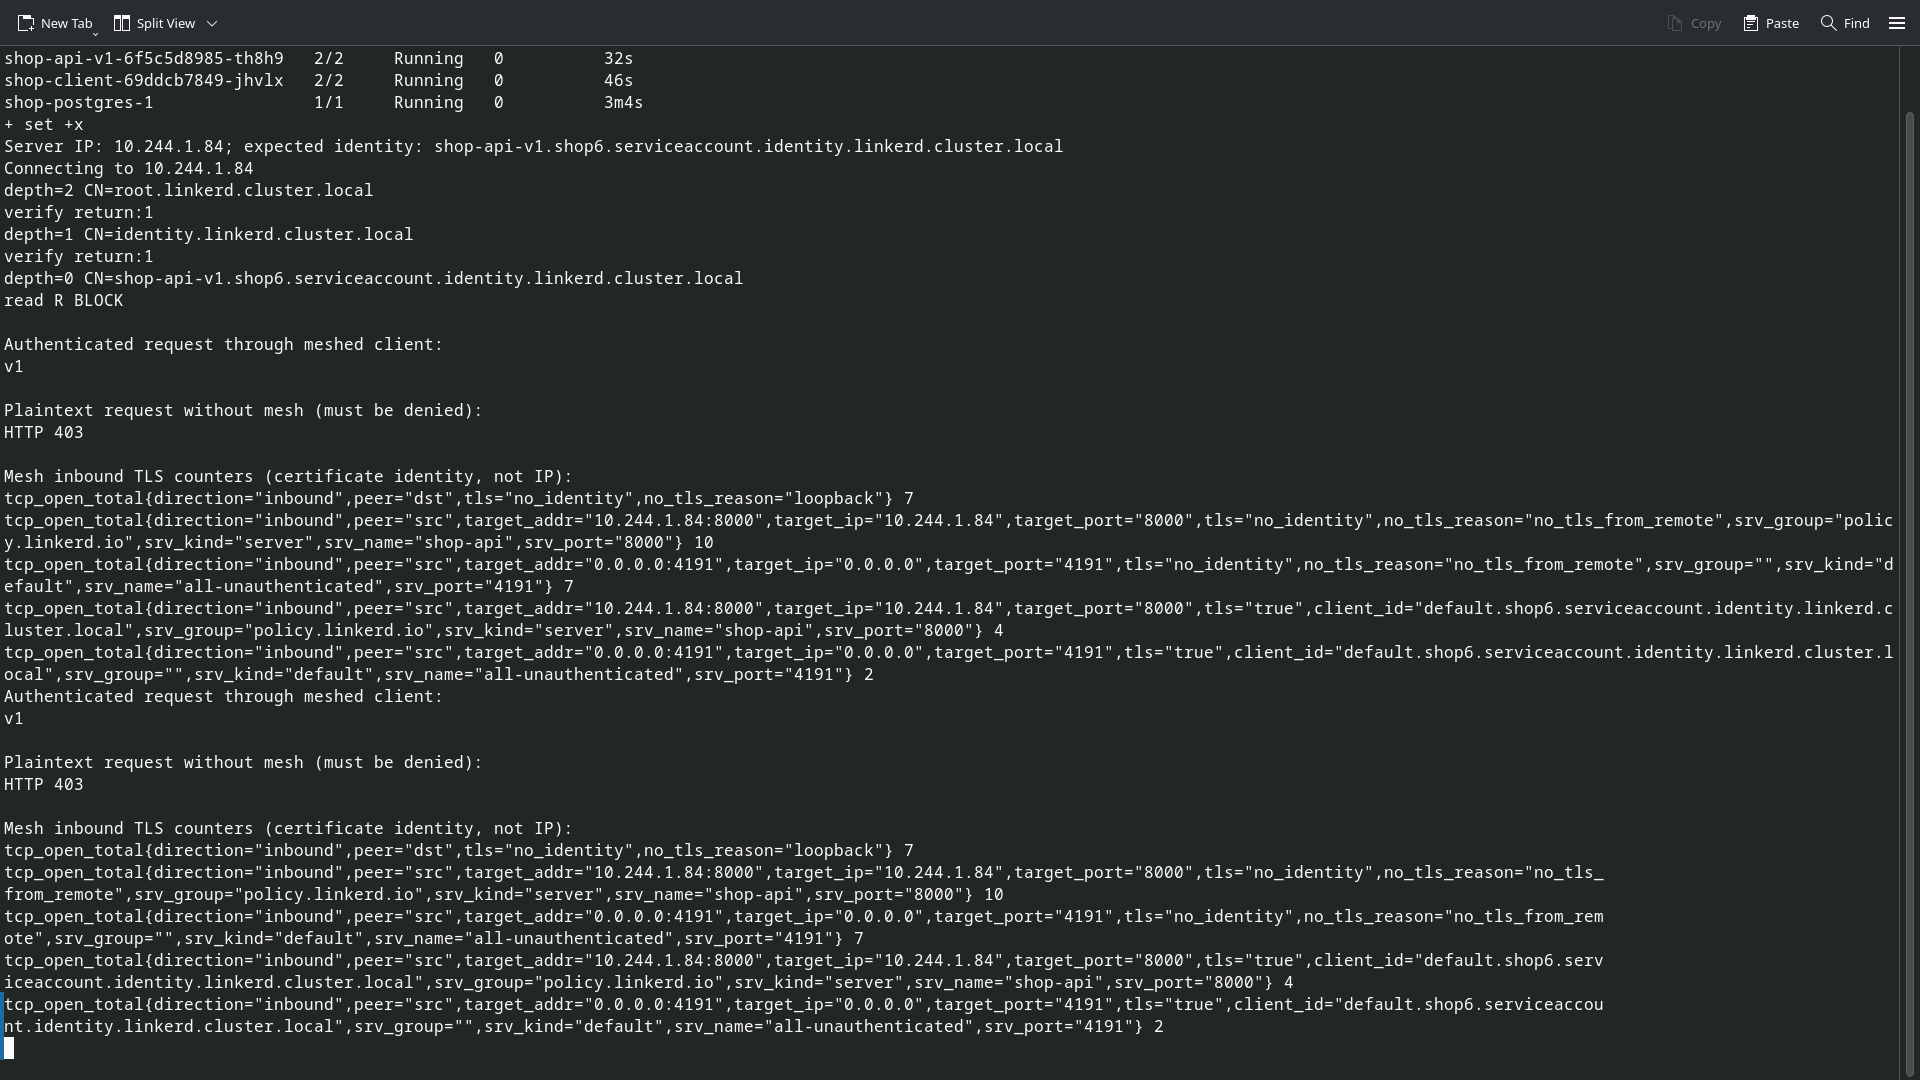
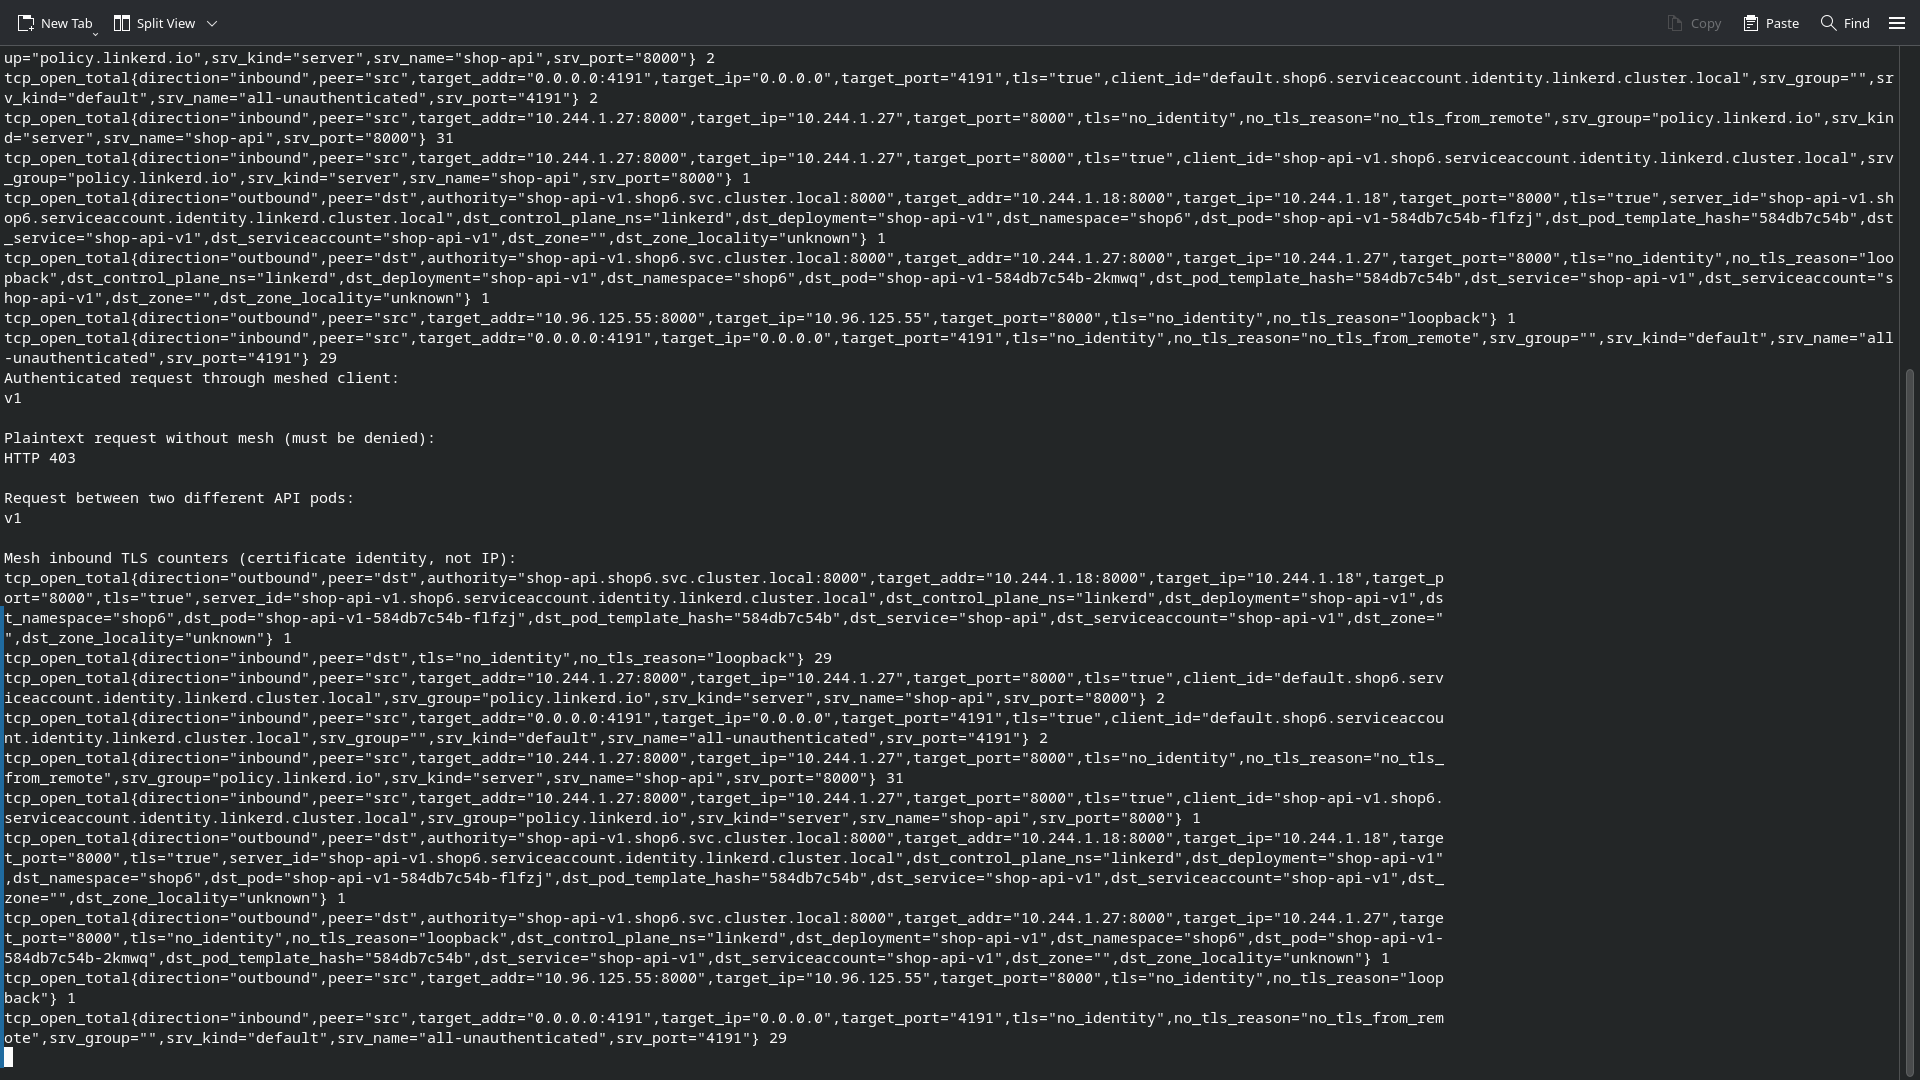
lab-6 stage 4: prove mesh retries with backend and client error graph

diff --git a/lecture-6-service-mesh/scripts/plot.py b/lecture-6-service-mesh/scripts/plot.py
@@ -1,0 +1,31 @@
+"""Render the recorded measurements; capture the displayed figure with Spectacle."""
+import argparse,json
+from pathlib import Path
+import matplotlib.pyplot as plt
+p=argparse.ArgumentParser();p.add_argument('kind',choices=['flaky','bad','good','cost']);a=p.parse_args()
+r=Path(__file__).resolve().parents[1]
+plt.rcParams.update({'font.size':14,'axes.grid':True,'figure.facecolor':'white'})
+fig,ax=plt.subplots(figsize=(14,7),layout='constrained')
+if a.kind=='flaky':
+    data=json.loads((r/'evidence/flaky.json').read_text());start=data['start']
+    for s in data['backend_error_series']:
+        ax.plot([float(t)-start for t,v in s['values']],[float(v)*100 for t,v in s['values']],label='Backend 5xx (Linkerd inbound, 30s rate)',linewidth=2)
+    ax.plot([t-start for t,v in data['client_windows']],[v*100 for t,v in data['client_windows']],label='Client errors (10s windows)',linewidth=2)
+    ax.set(xlabel='Seconds',ylabel='Errors, %',title=f'FLAKY=true, 30% simulated backend failures; {data["errors"]}/{data["requests"]} client errors',ylim=(-1,40));ax.legend()
+elif a.kind in ['bad','good']:
+    data=json.loads((r/f'evidence/{a.kind}.json').read_text());start=data['start']
+    ax.step([x['time']-start for x in data['weights']],[x['weight'] for x in data['weights']],where='post',label='Configured v2 traffic weight',linewidth=2)
+    for key,label in [('error','v2 backend 5xx, 30s rate'),('traffic','Observed v2 traffic share, 30s rate')]:
+        for s in data[key]: ax.plot([float(t)-start for t,v in s['values']],[float(v)*100 for t,v in s['values']],label=label,linewidth=2)
+    for x in data['gate']:
+        if x.get('decision') in ['rollback','promote']:
+            ax.axvline(x['time']-start,color='gray',alpha=.5,linestyle='--')
+    ax.set(xlabel='Seconds',ylabel='Percent',ylim=(-3,105),title='Automatic rollback: FAIL=true' if a.kind=='bad' else 'Automatic promotion: healthy v2');ax.legend(loc='center right')
+else:
+    base=json.loads((r/'evidence/baseline.json').read_text());mesh=json.loads((r/'evidence/mesh.json').read_text())
+    fig.clear();axes=fig.subplots(1,3)
+    for axis,key,title,scale in zip(axes,['p95_ms','cpu_cores','memory_bytes'],['Order p95, ms','API pods CPU, millicores','API pods working set, MiB'],[1,1000,1/1048576]):
+        vals=[(sum(x['value'] for x in d[key]) if isinstance(d[key],list) else d[key])*scale for d in [base,mesh]]
+        bars=axis.bar(['Baseline','Mesh'],vals,color=['#5594c7','#e89947']);axis.bar_label(bars,fmt='%.2f');axis.set_title(title);axis.set_ylim(0,max(vals)*1.25)
+    fig.suptitle('Same workload: 20 orders/s, 120 seconds, 2 API v1 replicas')
+fig.savefig(f'/tmp/lab6-{a.kind}.png',dpi=140)

diff --git a/lecture-6-service-mesh/scripts/export-flaky.py b/lecture-6-service-mesh/scripts/export-flaky.py
@@ -1,0 +1,19 @@
+from pathlib import Path
+import json
+from prom import query,series
+r=Path(__file__).resolve().parents[1]
+rows=[json.loads(x) for x in Path('/tmp/lab6-flaky.jsonl').read_text().splitlines()]
+start,end=rows[0]['time'],rows[-1]['time']
+sel='namespace="shop6",direction="inbound",deployment="shop-api-v1",target_port="8000",route_name!="probe"'
+expr=f'sum(rate(response_total{{{sel},status_code=~"5.."}}[30s])) / sum(rate(response_total{{{sel}}}[30s]))'
+retry='sum(increase(outbound_http_route_retry_requests_total{namespace="shop6",route_name="shop-api"}[%ds]))'%int(end-start)
+success=retry.replace('retry_requests','retry_successes')
+result={'start':start,'end':end,'requests':len(rows),'errors':sum(x['code']!=201 for x in rows),
+        'backend_error_series':series(expr,start,end),'retry_requests':query(retry,end),'retry_successes':query(success,end),
+        'retry_overflow':query(retry.replace('retry_requests','retry_overflow'),end),'client_windows':[]}
+for t in range(0,int(end-start),10):
+    subset=[x for x in rows if start+t <= x['time'] < start+t+10]
+    if subset: result['client_windows'].append([start+t,sum(x['code']!=201 for x in subset)/len(subset)])
+(r/'evidence/flaky.json').write_text(json.dumps(result,indent=2))
+print('Requests:',result['requests'],'client errors:',result['errors'])
+print('Retry requests:',result['retry_requests'],'successes:',result['retry_successes'])

diff --git a/lecture-6-service-mesh/scripts/prom.py b/lecture-6-service-mesh/scripts/prom.py
@@ -1,0 +1,9 @@
+"""Small Prometheus HTTP API helper, also used to export graph data."""
+import json,urllib.parse,urllib.request
+URL='http://localhost:19090'
+def query(expr,at=None):
+    params={'query':expr}
+    if at: params['time']=at
+    return json.load(urllib.request.urlopen(URL+'/api/v1/query?'+urllib.parse.urlencode(params)))['data']['result']
+def series(expr,start,end,step=5):
+    return json.load(urllib.request.urlopen(URL+'/api/v1/query_range?'+urllib.parse.urlencode({'query':expr,'start':start,'end':end,'step':step})))['data']['result']

diff --git a/lecture-6-service-mesh/REPORT.md b/lecture-6-service-mesh/REPORT.md
@@ -33,3 +33,15 @@
 [Полный вывод проверки](evidence/mtls.txt) содержит публичную цепочку сертификатов, cipher и Verify return code 0. Настоящий запрос meshed client возвращает v1; тот же открытый HTTP с ноды получает 403. Прокси API считает `tls="true"` с `client_id="default.shop6.serviceaccount.identity.linkerd.cluster.local"`: клиент аутентифицирован по сертификату. Приватные ключи в доказательство не входят.
 
 ![TLS handshake, identity и отказ plaintext-клиенту](screenshots/02-mtls.png)
+
+## Надёжность: backend ошибается, клиент почти не замечает
+
+Включил у v1 `FLAKY=true` и на HTTPRoute — retry для 5xx, максимум четыре повтора после исходной попытки, timeout одной повторной попытки 200 мс. Других изменений API для этого опыта не делал. Клиентские HTTP retries выключены. За 150 секунд отправил 3000 заказов: клиент получил **7 ошибок (0,233%)**, хотя backend действительно отвечал 500 примерно на 30% попыток.
+
+На одном графике — доля 5xx входящего прокси API (`response_total`, окно 30 секунд) и ошибки реального клиента (окна 10 секунд). Пробы `/health` исключены. Исходные точки и сводка — [flaky.json](evidence/flaky.json). `increase(outbound_http_route_retry_requests_total)` показывает около 1293 повторов, `retry_successes_total` — около 915 успешных ответов на повтор. Значения дробные, потому что Prometheus экстраполирует increase между scrape, а не хранит журнал каждой попытки.
+
+![Реальные 5xx backend и почти незаметные клиенту ошибки](screenshots/03-reliability.png)
+
+Сработали именно **retries**: счётчики повторов и успешных повторов растут, `retry_overflow_total` равен нулю; circuit breaker/outlier detection отдельно не настраивал. Из одних только двух линий ошибок этого вывода сделать нельзя — поэтому проверил метрики исходящего прокси. При независимой вероятности ошибки 0,3 и пяти попытках ожидаемая вероятность окончательного отказа — 0,3⁵ ≈ 0,243%, что согласуется с измерением. Это не обещание того же результата при постоянном отказе backend.
+
+Повторы POST безопасны здесь лишь потому, что искусственный 500 возникает до INSERT. В реальной системе потеря ответа после commit требует idempotency key, иначе retry может создать второй заказ. mTLS также проверил запросом между двумя разными API Pod: в `mtls.txt` есть клиентская identity `shop-api-v1`, помимо identity нагрузочного клиента.
